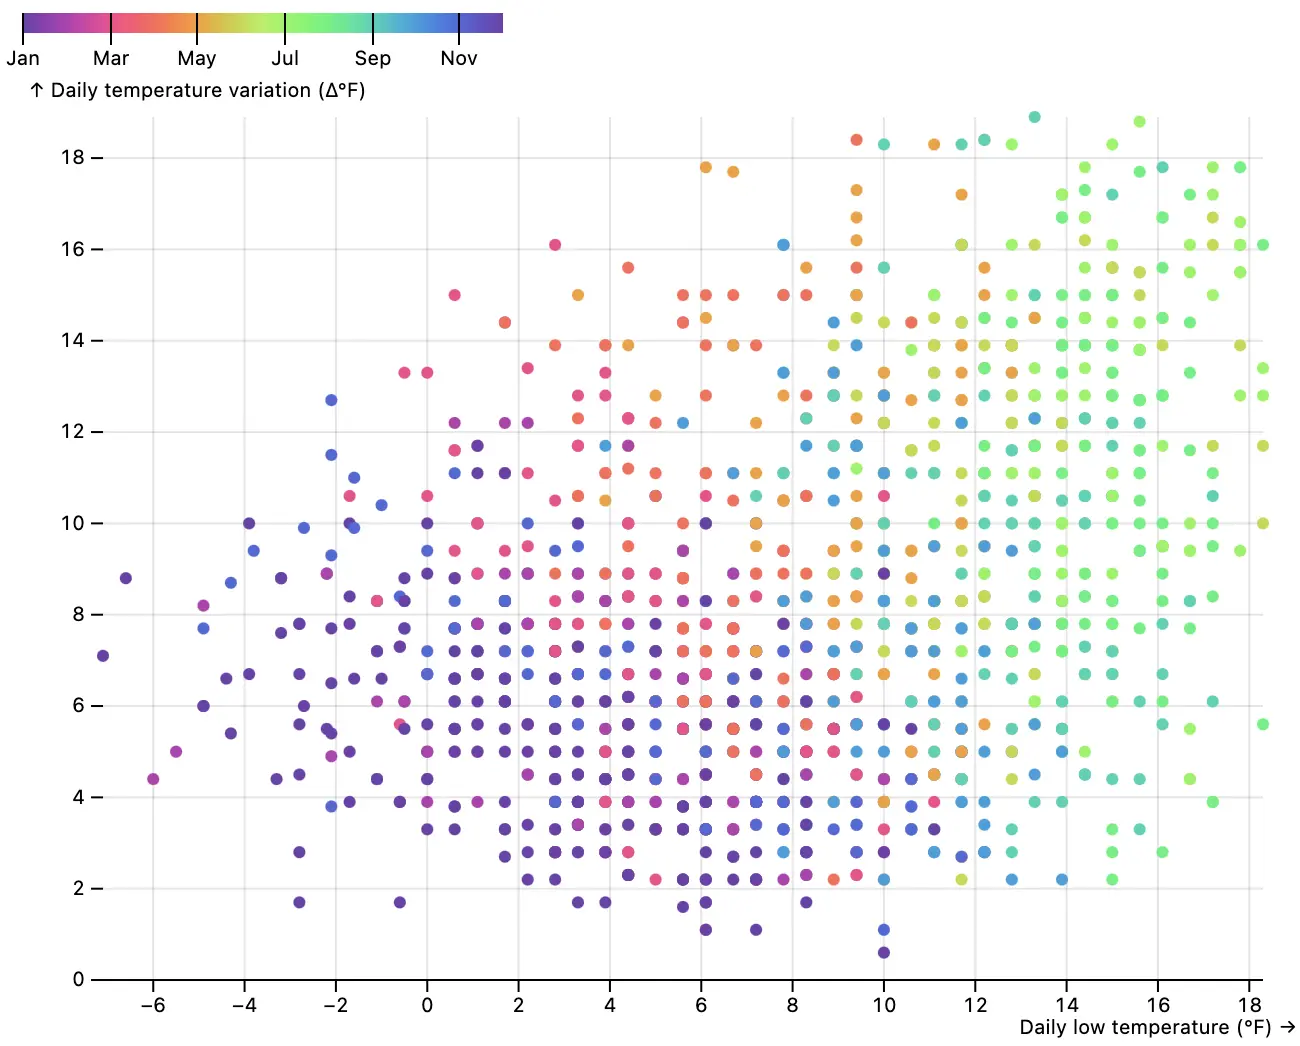
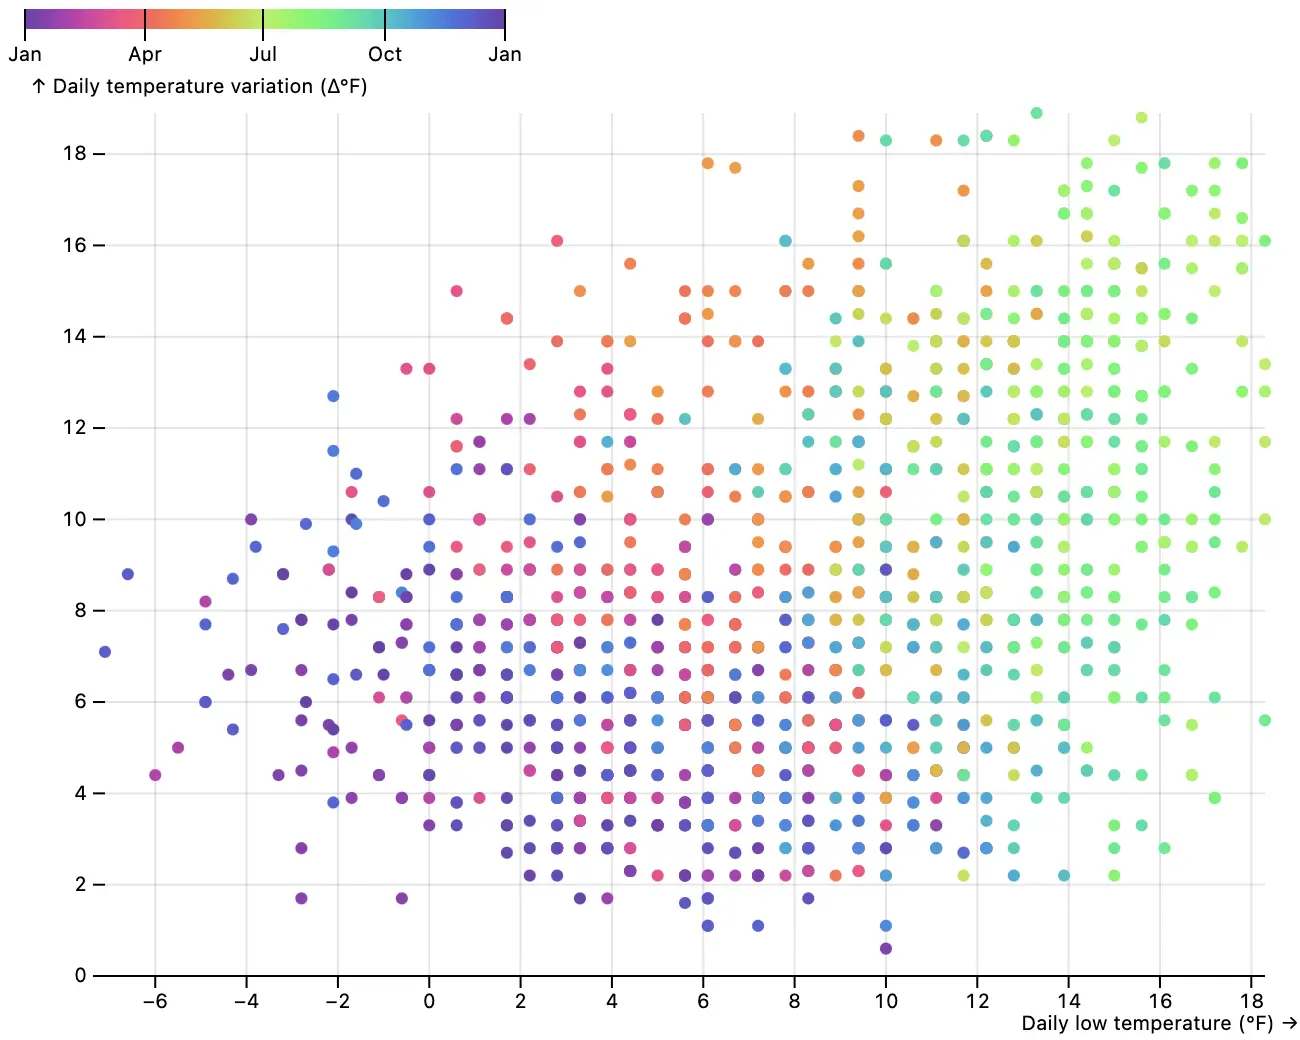
Update CHANGELOG

diff --git a/CHANGELOG.md b/CHANGELOG.md
@@ -14,10 +14,14 @@ Plot.plot({
   grid: true,
   x: {label: "Daily low temperature (°F) →", tickSpacing: 40},
   y: {label: "↑ Daily temperature variation (Δ°F)", tickSpacing: 40},
-  color: {scheme: "rainbow", legend: true, tickFormat: Plot.formatMonth()},
+  color: {scheme: "rainbow", nice: true, legend: true, tickFormat: "%b"},
   marks: [
     Plot.ruleY([0]),
-    Plot.dot(weather, {fill: (d) => d.date.getUTCMonth(), x: "temp_min", y: (d) => d.temp_max - d.temp_min})
+    Plot.dot(weather, {
+      x: (d) => d.temp_min,
+      y: (d) => d.temp_max - d.temp_min,
+      fill: (d) => (d = new Date(d.date), d.setUTCFullYear(2020), d)
+    })
   ]
 })
 ```
